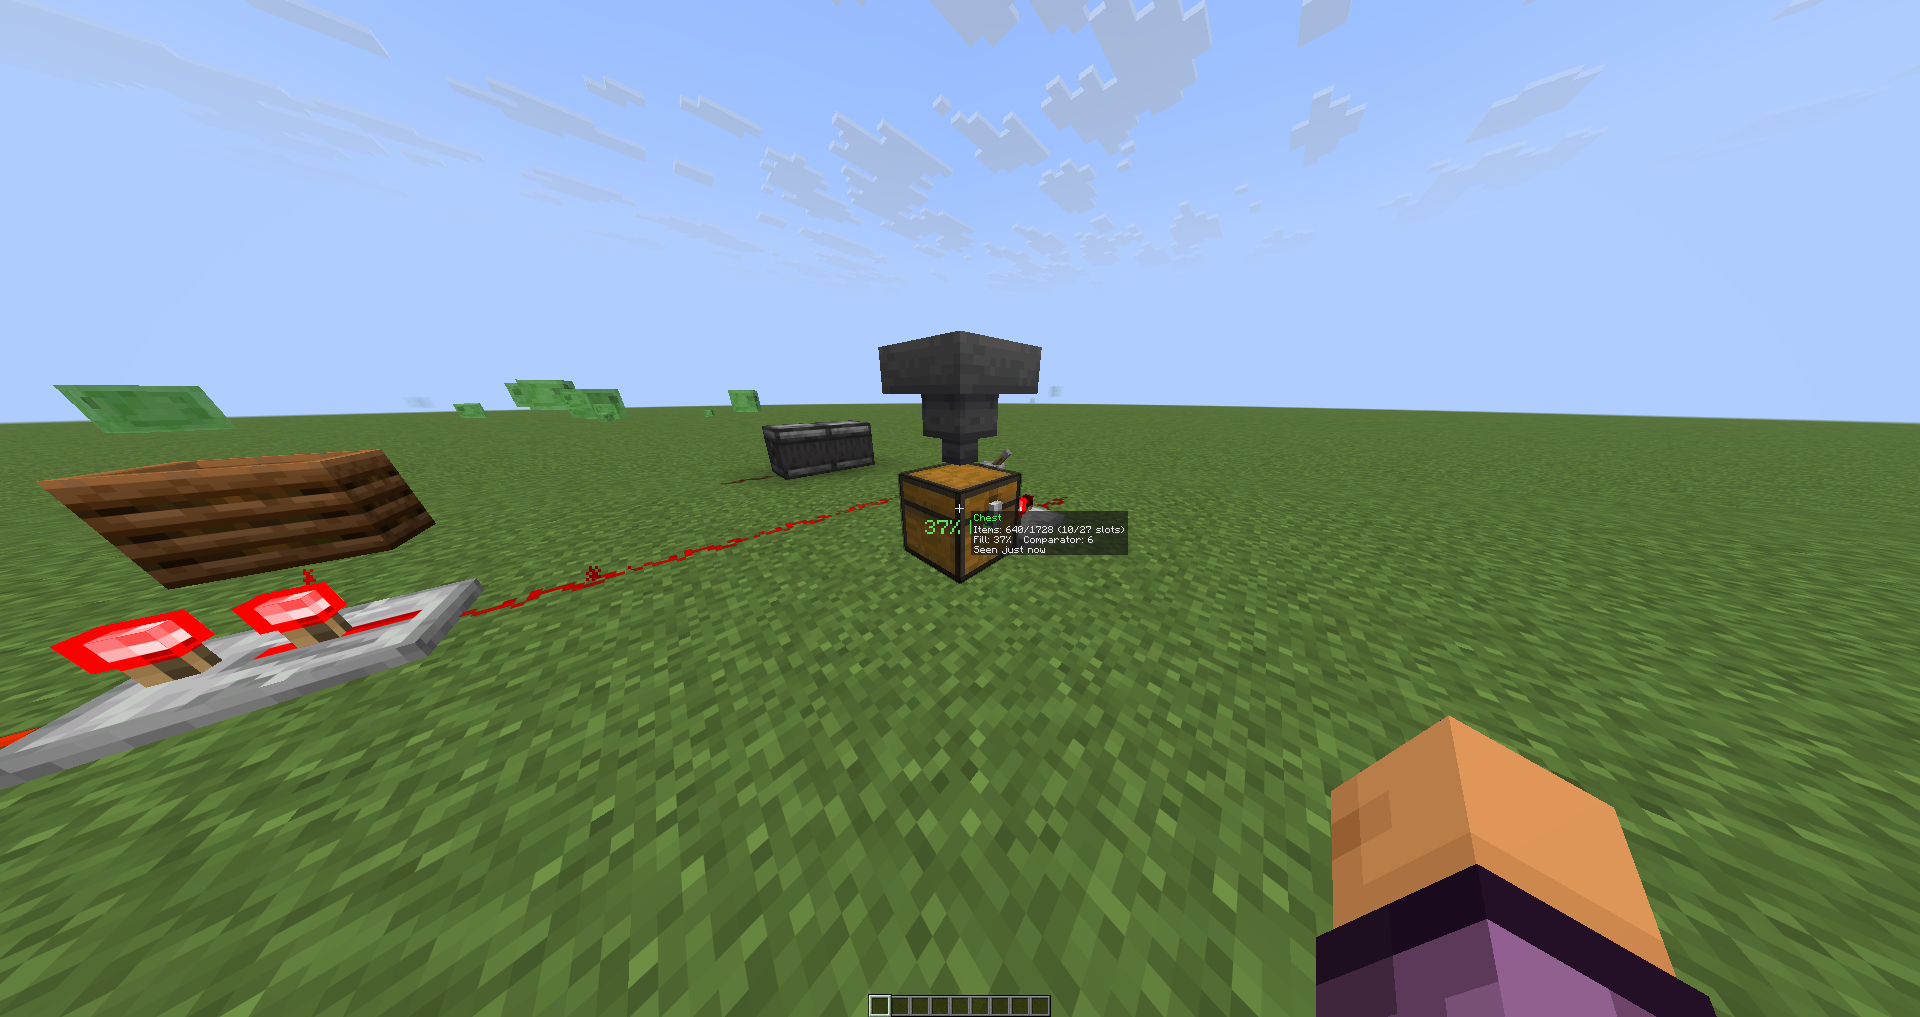
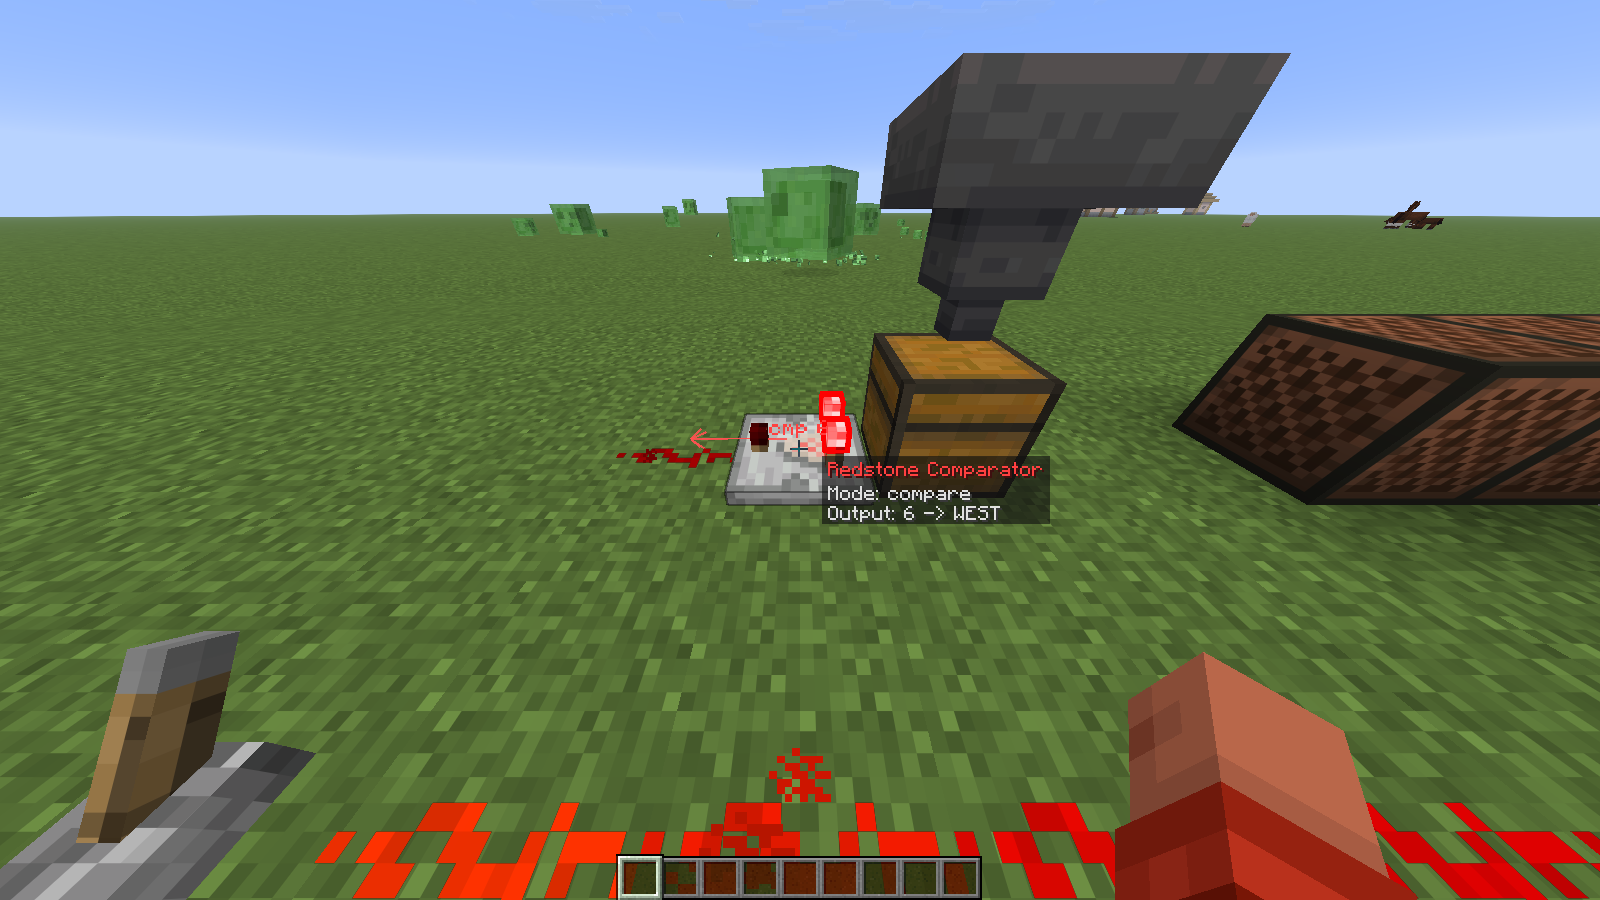
Add Modrinth page text and gallery
media/modrinth-description.md holds the page text; media/gallery has
eight 1600x900 screenshots with captions.md. README images refreshed.
DevShots: overview shots hover with the HUD hidden, closer camera, and
the world no longer pauses when the window loses focus.

diff --git a/src/client/java/dev/gauge/client/DevShots.java b/src/client/java/dev/gauge/client/DevShots.java
@@ -30,6 +30,11 @@ final class DevShots {
 			return;
 		}
 		ticks++;
+		// a click elsewhere on the desktop must not pause the world mid-run
+		mc.options.pauseOnLostFocus = false;
+		if (mc.gui.screen() instanceof net.minecraft.client.gui.screens.PauseScreen) {
+			mc.gui.setScreen(null);
+		}
 		List<BlockPos> targets = targets();
 		if (targets.isEmpty()) {
 			return;
@@ -66,7 +71,12 @@ final class DevShots {
 			boolean overview = OVERVIEW.contains(extra);
 			// "r" targets: step back and up, radius mode, to see every label around it
 			Gauge.config.mode = overview ? GaugeConfig.Mode.RADIUS : GaugeConfig.Mode.FOCUS;
-			teleport(mc, t.getX() + 0.5, t.getY() + (overview ? 2 : 0), t.getZ() + (overview ? 6.5 : 2.5));
+			// overviews: hover (creative flight) and hide the hand and hotbar, like F1
+			mc.player.getAbilities().flying = overview;
+			if (mc.gui.hud.isHidden() != overview) {
+				mc.gui.hud.toggle();
+			}
+			teleport(mc, t.getX() + 0.5, t.getY() + (overview ? 1.2 : 0), t.getZ() + (overview ? 3.5 : 2.5));
 		}
 		if (extra >= 1 && extra < targets.size() && (ticks - 500) % 30 == 25) {
 			shot(mc, "5-target" + extra);

diff --git a/media/modrinth-description.md b/media/modrinth-description.md
@@ -1,0 +1,74 @@
+**See what your redstone is doing.** Gauge labels redstone in the world: power levels on dust, output arrows on repeaters and comparators, which blocks are strongly or weakly powered, how fast a clock ticks, how full a container is and what a comparator reads from it. It also covers note blocks, jukeboxes, pistons, doors, rails, tripwires, minecarts and lit TNT.
+
+Everything happens on your own computer: Gauge needs nothing on the server and sends no packets of its own.
+
+## Two modes
+
+- **Radius** (default): labels everything within 10 blocks in front of you (2–32, your choice).
+- **Focus**: only the block or cart under your crosshair, with labels drawn through walls.
+
+Press **Z** to switch. In both modes a small panel next to the crosshair shows the details of what you look at.
+
+## Redstone
+
+- **Dust**: power 0–15, coloured from grey to bright red.
+- **Repeaters**: delay, locked state and an arrow showing where they output.
+- **Comparators**: compare or subtract, the output value and an arrow. Servers never send a comparator's output, so Gauge works it out from its inputs (`~6`).
+- **Observers**, **torches**, **levers**, **buttons**, **plates**, **lamps**, **crafters**: on or off and their output.
+- **Powered blocks**: `S15` for a strongly powered block (powers dust next to it), `W8` for a weakly powered one.
+- **Pulses**: a block that just changed gets a cyan outline with the time since its last change. Clocks show their period (`clock 4gt`); outlines turn magenta for very fast pulses (1–2 game ticks).
+
+## Containers
+
+- Fill and comparator output (`37% | 6`) for chests, barrels, hoppers, dispensers, droppers, furnaces and shulker boxes. Double chests count both halves.
+- Servers don't send what is inside a container until you open it, so Gauge remembers each container you open. Containers you have not opened show `?`.
+- **Hoppers** show where they output and whether redstone locks them.
+- **Furnaces, smokers, blast furnaces**: `lit` while burning, `lit!` when lit without any fuel burning (for example set by a command).
+- **Composters, cauldrons, cakes, beehives** and other blocks a comparator can read.
+- **Lecterns**: page and comparator output (`p3/5 | 8`) once you have read the book.
+
+## Mechanisms
+
+- **Pistons and sticky pistons**: extended or retracted. Gauge uses the game's own power check, including quasi-connectivity, and marks a piston orange (`ret!`, `ext!`) when it is powered but retracted, or unpowered but extended: a BUD, or a blocked push.
+- **Doors, trapdoors, fence gates**: open or closed, `P` when powered.
+- **Rails**: powered and activator rails on or off; detector rails with their output and the comparator value of the cart on them.
+- **Bells**: ringing or powered. **Tripwires**: a tripped string gets a red outline, hooks show whether they are armed.
+- **TNT**: unstable TNT is marked; lit TNT and TNT minecarts count down their fuse.
+- **Beehives and nests**: honey level 0–5.
+
+## Sound
+
+- **Note blocks**: the note (`C4`, `F#6`), the instrument, and in the panel the click count, pitch, frequency and next note.
+- **Jukeboxes**: the song and how far along it is (`♪ 0:53/3:05`), plus the comparator output.
+
+## Minecarts and boats
+
+- Chest and hopper minecarts and chest boats show their fill once you have opened them.
+- Hopper minecarts show whether an activator rail has locked them. Furnace minecarts show whether they have fuel.
+
+## Singleplayer: exact and live
+
+In singleplayer Gauge reads the built-in server directly, so every value is exact and updates live. You don't need to open anything first: container and cart contents, comparator outputs, jukebox songs, lectern pages, bees in a hive, furnace fuel and cook progress, furnace cart fuel and hopper cart lock.
+
+## Controls
+
+| Key | What it does |
+|---|---|
+| **Z** | Switch Radius / Focus mode |
+| **N** | Hide or show the overlay |
+| (not bound) | Open the settings screen |
+
+All keys can be changed under Options → Controls → Gauge. The settings screen also opens with `/gauge` or from [Mod Menu](https://modrinth.com/mod/modmenu). There you can turn each kind of label on or off and set the radius. `/gauge forget` clears the containers Gauge remembers.
+
+Settings are saved in `config/gauge/config.json`.
+
+## Compatibility
+
+- Minecraft **26.3**, Fabric Loader 0.20.1+, [Fabric API](https://modrinth.com/mod/fabric-api), Java 25.
+- Labels are drawn with the game's own debug drawing and no render hooks of its own, so they should work with Sodium and Iris (not tested yet).
+- Optional: [Mod Menu](https://modrinth.com/mod/modmenu) for a Configure button.
+- Other Minecraft versions and NeoForge may follow.
+
+## Credits
+
+Made by Skaffa, written together with Claude (Anthropic). Source code on [GitHub](https://github.com/skaffa/gauge) under the [MIT License](https://github.com/skaffa/gauge/blob/main/LICENSE).

diff --git a/media/gallery/captions.md b/media/gallery/captions.md
@@ -1,0 +1,12 @@
+# Modrinth gallery
+
+| File | Title | Description |
+|---|---|---|
+| 1-redstone-overview.png (featured) | Radius mode | Dust power, a chest at 37% with comparator 6, note block notes, a jukebox song and a lectern page. |
+| 2-mechanisms.png | Mechanisms | Doors, gates and trapdoors show open or closed; pistons show extended or retracted. |
+| 3-comparator.png | Comparator panel | Focus mode: the comparator's mode, exact output and where it outputs. |
+| 4-piston-qc.png | Quasi-connectivity | A piston powered only through the block above it. |
+| 5-hopper-cart.png | Hopper minecart | Fill, detector rail comparator value and lock state of a hopper minecart. |
+| 6-beehive.png | Beehive | Honey level and the number of bees inside (exact in singleplayer). |
+| 7-note-block.png | Note block | Note, instrument, pitch, frequency and the next click. |
+| 8-rails-bell.png | Rails and bell | Powered and activator rails, a powered bell and weakly powered blocks (W15). |
